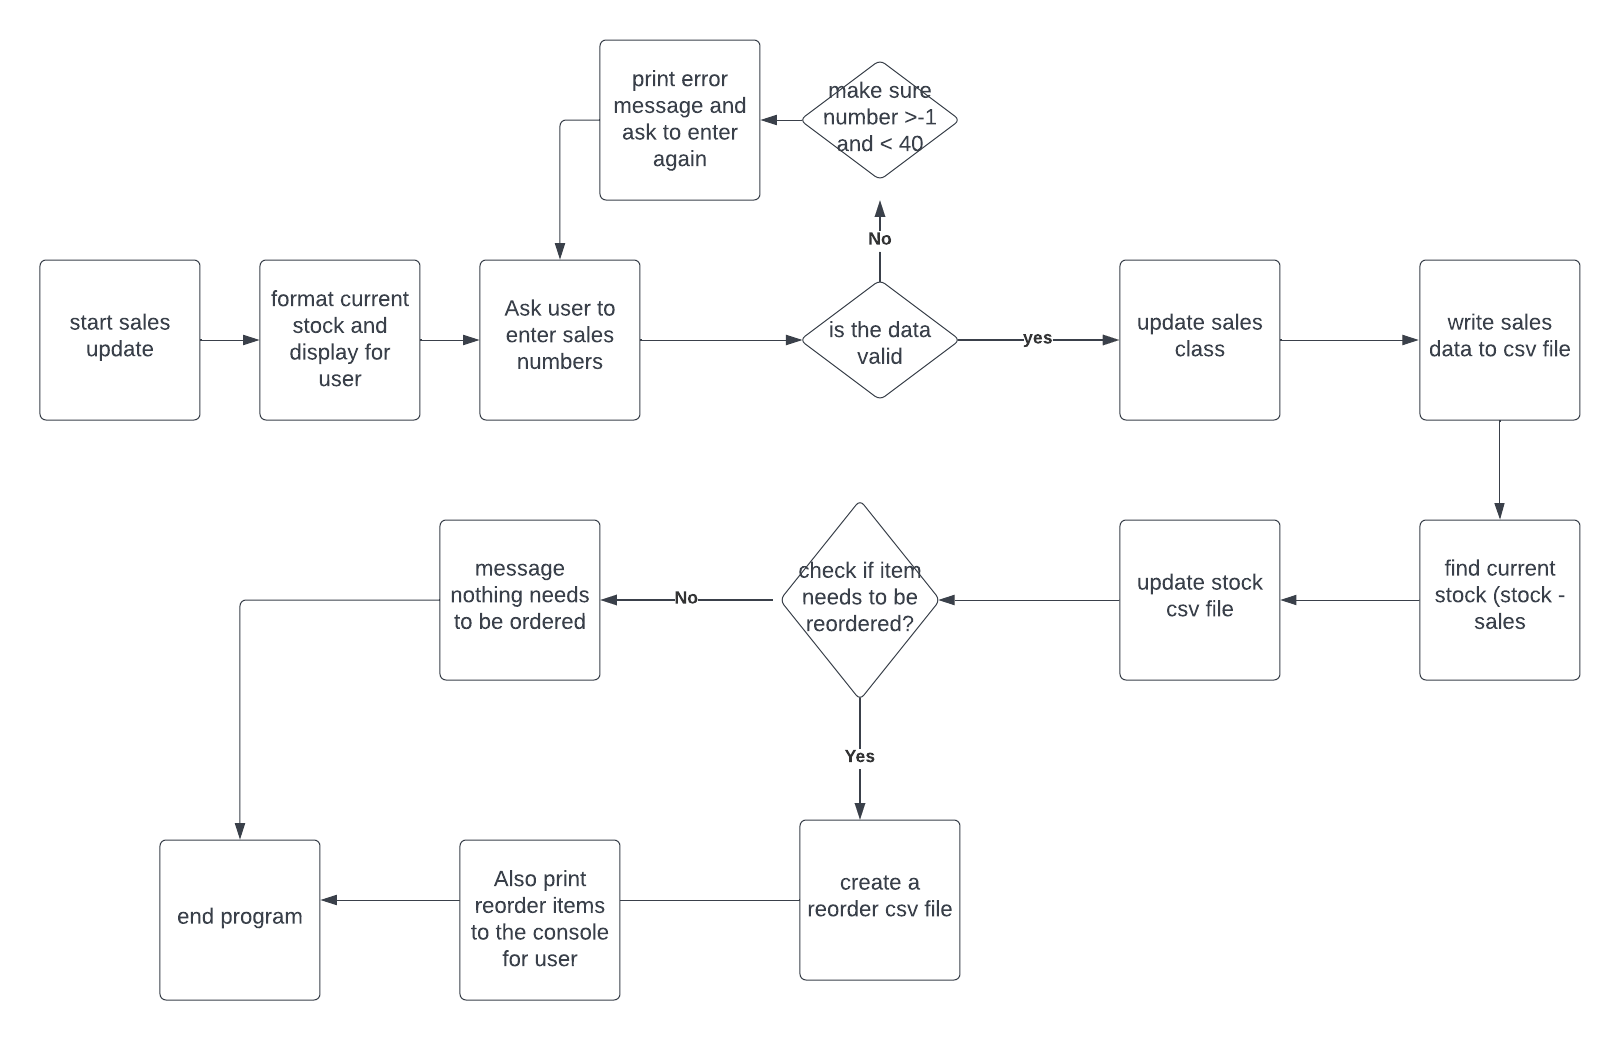
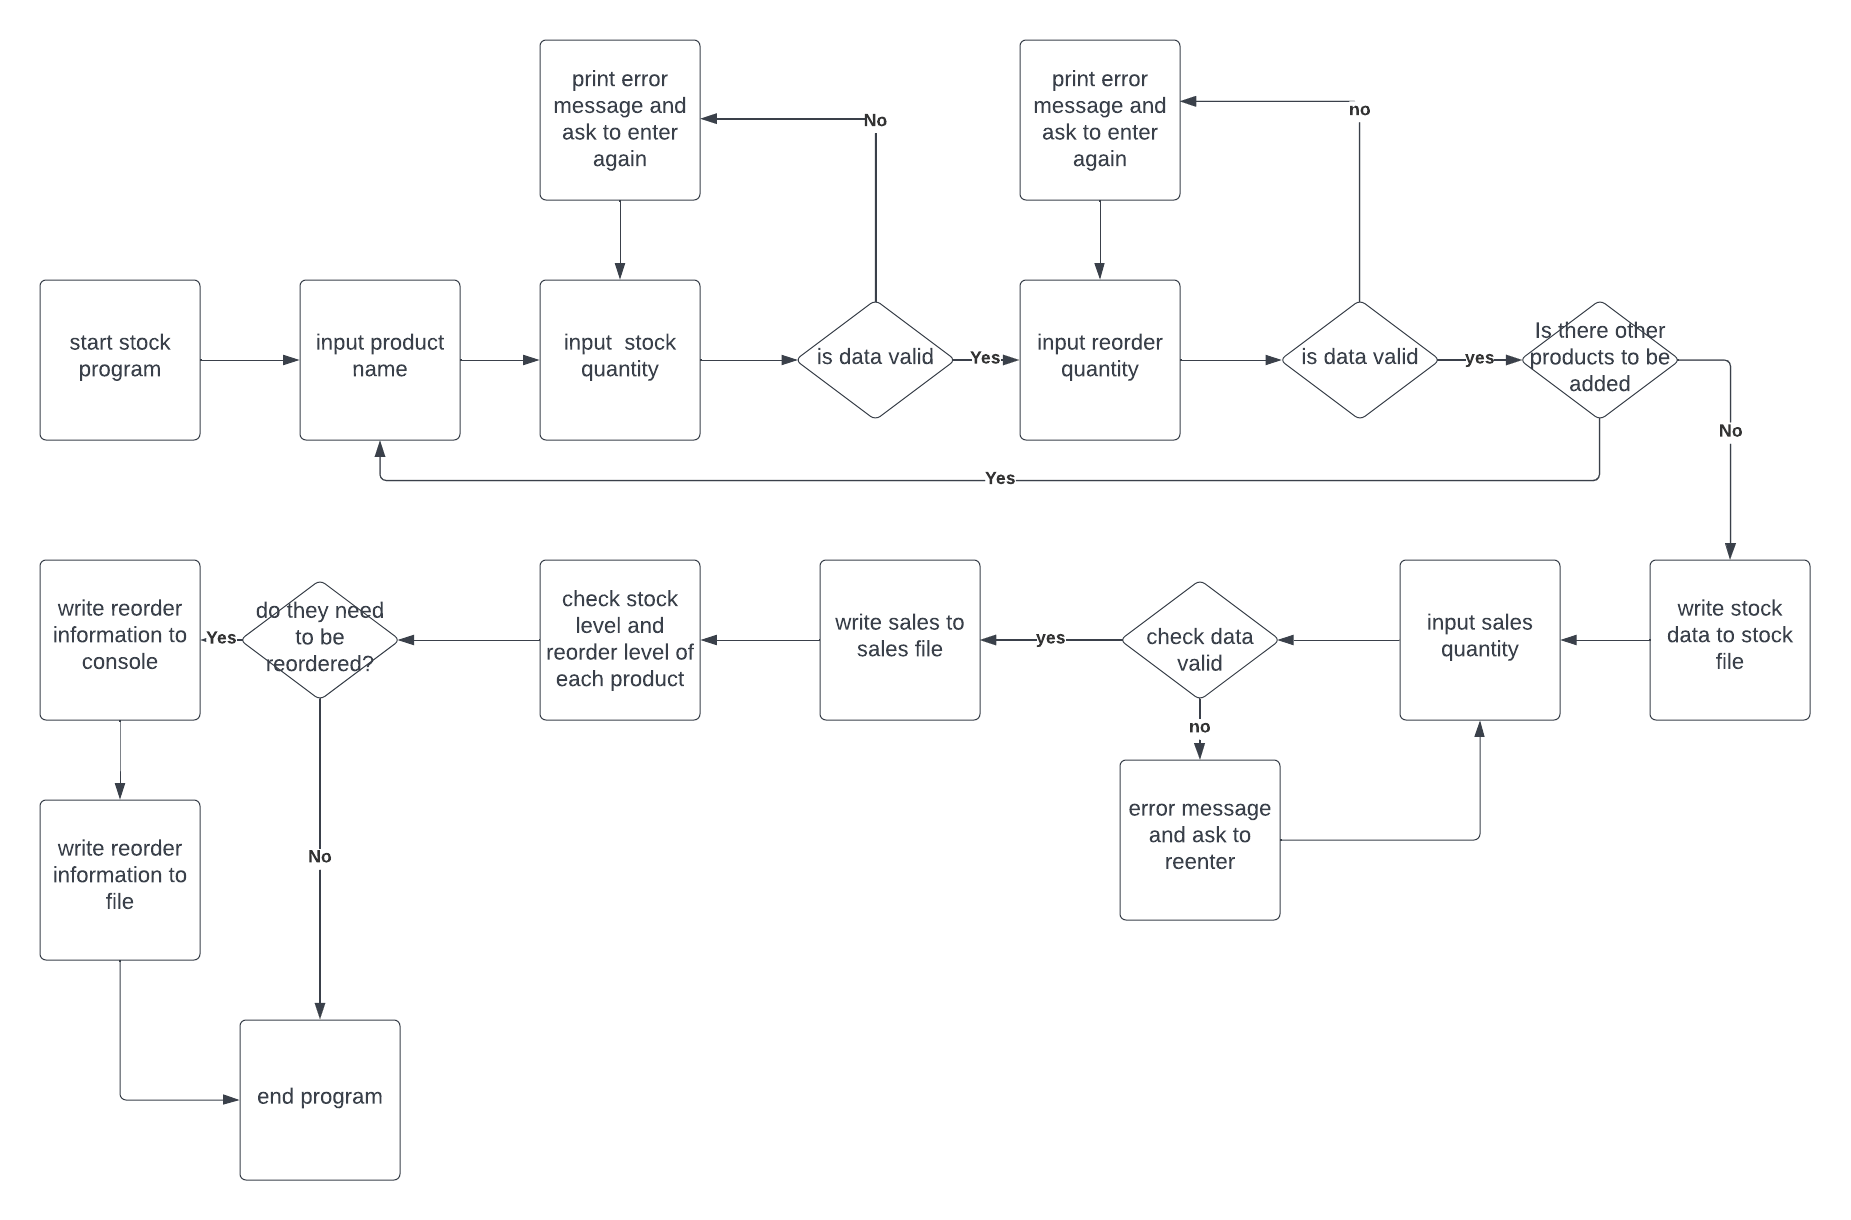
update readme and add images

diff --git a/README.md b/README.md
@@ -1,6 +1,6 @@
 # STOCK PROGRAM
 
-Stock is a simple program that allows the user to input the sales quantity for 3 products (coke, fanta and water) and the program writes this sales information to a sales file (comma delimited file).  A current stock file (also comma delimited) holds the current stock levels of the 3 products and also the reorder level.  The program updates the stock levels and writes the updated stock back to the stock file.  The program then checks if the products need to be reordered, whether the stock level is below the reorder level and if so the product and the current stock level is printed to the console and also written to a reorder file(csv).
+Stock is a simple program that allows the user to input multiple products, with the quantity of stock they have and also the quantity at which they need to reorder the product.  This information is written to a stock file (comma delimited file).  The user is then asked for the quantity of sales of each product they have in stock and the program writes this sales information to a sales file (comma delimited file).  The program updates the stock levels and writes the updated stock quantity back to the stock file. It also updates the is-audited value on the sales file.  The program then checks if the products need to be reordered, whether the stock level is below the reorder level and if so the product and the current stock level is printed to the console and also written to a reorder file(comma delimited file).
 
 The live link to Stock program is https://stock-dm.herokuapp.com/
 
@@ -8,11 +8,11 @@ The live link to Stock program is https://stock-dm.herokuapp.com/
 
 ### For user:
 
-- to automate a stock process so that the user can easily see after inputting their sales if they need to reorder stock and how much stock they currently have. 
+- to automate a stock process so that the user can easily enter their products with stock quantity and reorder level quantity.  They then can input their sales for each product and the program updates their stock quantity and also displays what products need to be reordered.  The reorder information is also written to a csv file.  The name and path to this file is displayed for easy access for the user.  
 
 ### The data model
 
-#### Stock file: (this file is already set up)
+#### Stock file: (user inputs each product with stock quantity and reorder level)
 - item:
 - quantity:
 - reorder-level
@@ -33,47 +33,82 @@ To create the structure of the stock program I created a flow chart using Lucid 
 
 ## Features
 
-The initial screen welcomes the user and shows the current stock levels.
+1 The initial screen welcomes the user to Stock program.  Let's get your stock ready! and then askes the user to enter the name of the product
 
-![start of program](images/start_of_program.png)
+![start of program](images/initial_screen.png)
 
-It then asks the user to input sales data for the items.  The program checks that the data entered is a non negative number and also that the sales figure is not greater than the stock levels i.e. 40.
-So if the user types letters or anything that is not a number, they get this message back and asked to enter the sales figures again
+2 When the user enters the name of the product, the user is asked to enter the current quantity of the product in stock. The program checks that the user enters a valid number 0 or greater.
 
-![error message for not a number](images/error_not_number.png)
+![asked to enter stock quantity](images/stock_enter_quantity.png)
 
-If the user types a negative number, they get this message and asked to enter the sales figures again
+If the user enters data that is not a number an error message is printed and the user is asked to reenter the data.
 
-![error message for negative number](images/error_negative.png)
+![stock not a number](images/stock_not_number.png)
 
-If the user types a number greater than 40, (this is the initial stock of the items), they get this message and asked to enter the sales figures again
+If the user enters a negative number an error message is printed and they are asked to enter the data again.
 
-![error message for a number greater than 40](images/error_greater_than_40.png)
+![stock negative number](images/stock_minus.png)
 
-Even if nothing is entered or the user hits enter by accident, they get the following message
+3 When the user enters the stock quantity of the product, they are then asked for the reorder quantity of the product. The program again checks the user enters a valid number 0 or greater, if a number is not entered or a negative number is enetered similar messages to above are printed and the user is asked to reenter the data.
 
-![error message for nothing entered](images/error_nothing_entered.png)
+![asked to enter reorder quantity](images/stock_enter_reorder.png)
 
-The program writes to a sales file.
-A message comes up on the screen to tell the user that the sales file has been successfully updated.
-It uses the sales figures and the stock figures to work out the current stock level. 
-Another message comes up on the console to say that the stock quantity has been updated. 
-It then checks the current stock level against the reorder level, and if the stock level is below the reorder level, the product and the current stock level is written to the console and also a reorder file.
+4 When the user enters the reorder quantity, the user is then asked if they want to enter a new stock.  
 
-If an item has stock below the reorder level then the item is written to the console with it's current stock
-![reorder information](images/reorder_details.png)
+![asked to enter new stock](images/new_stock.png)
 
-If all the items have stock above the reorder level then there is nothing to reorder.
+5 If they enter yes they are then asked for the name of the product and loop through asking them for the quantity and the reorder quantity for each product the user enters.
 
-![nothing to reorder](images/nothing_reorder.png)
+![yes to enter new stock](images/yes_new_stock.png)
+
+6 If the user answers no, to do you want to enter a new stock, the program prints each product entered by the user, with the stock quantity.  It then asks the user what quantity of the first product entered did they sell.
+
+![finished entering stock](images/prints_stock.png)
+
+7 When the user enters the quantity of the product sold, the program checks that what the user enters is a valid number 0 or greater. It also checks that the amount entered by the user is not greater than the stock of the product. The program prints "Sales of 40 of coke has been recorded."  This is to highlight to the user what quantity was entered for sales.
+
+![asked to enter sales](images/enter_sales.png)
+
+8 The program asks for sales quantity for each product entered by the user. 
+
+![sales quantities entered](images/sales_entered.png)
+
+If anything other than a number is entered an error message is printed and the user is asked to reenter the quantity.
+
+![sales_not_number](images/sales_not_number.png)
+
+If a negative number is entered an error message is printed and the user is asked to reenter the quantity.
+
+![sales negative number](images/sales_negative.png)
+
+If the number entered is greater than the stock of that product, an error message is printed and the user is asked to reenter the quantity. The error message lets the user know the current stock and that the sales cannot be greater than that.
+
+![sales greater than stock](images/sales_greater_stock.png)
+
+9 The program gets the stock and takes away the sales quantity, to give the new stock quantity. 
+The program updates the quantity in the stock file and updates the is_audited field in the sales file to True.
+It then checks the reorder quantity and if the new stock quantity is below the reorder quantity, the product is written to the console with the new stock quantity.  This is done for each product.
+
+![reorder products printed](images/reorder.png)
+
+10 The reorder products are also written to a reorder file with the same information that is printed to the console.  This reorder comma delimited file has a date and time stamp so that if the program is run multiple times in a day the user will be able to tell the files appart. Finally the path to the comma delimited reorder file is printed to the console so that the user can get access to the file if needed.
+
+![path to reorder file](images/file_path.png)
+
+11 If none of the products need to be reordered, a message is printed to the console to say that nothing needs to be reordered. The file path to the reorder file is not shown in this instance.
+
+![nothing to reorder](images/nothing_to_reorder.png)
+
 
 ### future features
 
-Allow the user to update stock quantities when they reorder stock.
+Allow the user to update the stock when they have reordered stock.
 
 ## Libraries used
 
 I used csv library to read from and write to the comma delimited files (csv files).
+I used the datetime library to put a date and time stamp on the reorder file.
+I used the os library to give the user the path to the reorder comma delimited file.
 
 ## Testing and Validation
 
@@ -83,14 +118,25 @@ The python code was checked with PEP8 validator and passed with no errors found.
 
 ### Manual Testing
 
-I checked with the user input that the data had to be a number, it had to be 0 or greater and not greater than 40 (as this was the initial stock level of all the products).
+I checked that when I entered something that wasn't a number for the current stock quantity I got the error message.
+I checked if I entered a negative number for stock quantity that I got the error message.
+I checked if I didn't enter anything for stock quantity that I got an error message.
+I checked that when i entered a non number or nothing for sales quantity, that I got an error message.
+I checked that when I entered a negative number for sales quantity that I got an error message.
+I checked when I entered a number greater than the current stock, that I got an error message.
+I checked when I entered valid data that it was correctly printed to the console and also to the files.
+I checked that the updated stock quantity was correct in the stock file.
+I checked that the is_audited field was updated in the sales file.
+I checked that the correct products and quantities were printed for reorder and also written to the reorder file.
+I checked when there was nothing to be reordered that the correct message was printed to the console.
+I checked that a reorder file was created with the correct date and time stamp.
 
 ### Bugs found
 
-line too long in code but couldn't find a way to put it over 2 lines that didn't throw an error
-time stamp is UTC so Ireland is UTC+1
 
 ### unfixed bugs
+
+The date and time stamp on the reorder file is UTC timezone, Ireland is UTC +1. 
 
 ## Deployment
 
@@ -121,7 +167,7 @@ To deploy this page to Heroku from my GitHub repository I followed the steps bel
 
 - python
 - code institute front-end built from the template
-- heroku used to deploy
+- heroku
 
 ## Credits
 
@@ -130,4 +176,6 @@ To deploy this page to Heroku from my GitHub repository I followed the steps bel
 - stackoverflow for validation in a function
 - Lucidchart for my flow chart
 - tinyPNG to compress images
+- Okwudiri Okoro, my mentor for his help and also for aspiring me!
+- My MSLETB cohort for their support and sharing knowledge 
 
